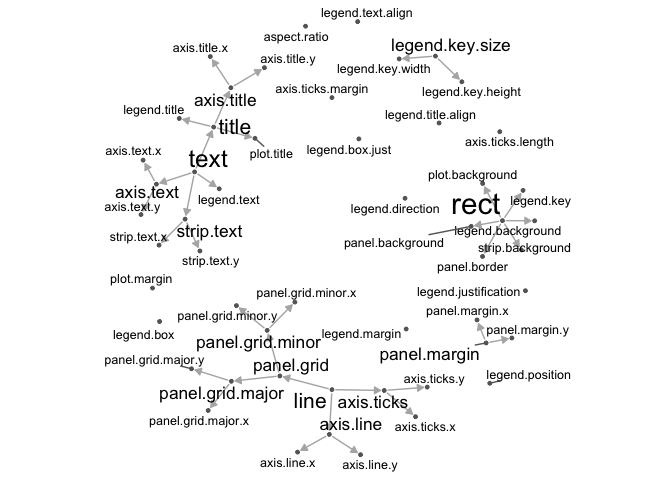
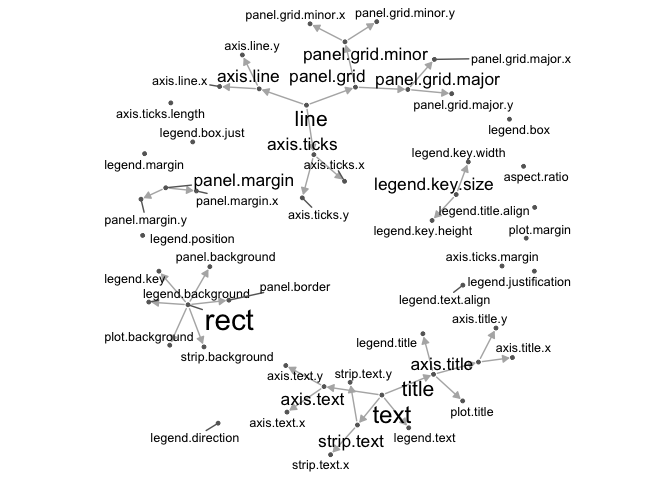
fix HP plot to ignore singletons

Changed region(s): [[0.1562, 0.0, 0.8438, 1.0]]

diff --git a/README.md b/README.md
@@ -1,7 +1,7 @@
 The `geomnet` package
 ================
 Sam Tyner, Heike Hofmann
-2016-12-05
+2016-12-06
 
 <!-- README.md is generated from README.Rmd. Please edit that file -->
 [![CRAN Status](http://www.r-pkg.org/badges/version/geomnet)](https://cran.r-project.org/package=geomnet) [![CRAN RStudio mirror downloads](http://cranlogs.r-pkg.org/badges/geomnet)](http://www.r-pkg.org/pkg/geomnet) [![Travis-CI Build Status](https://travis-ci.org/sctyner/geomnet.svg?branch=master)](https://travis-ci.org/sctyner/geomnet)
@@ -87,7 +87,16 @@ hp.all <- fortify(as.edgedf(hp.edges), hp.chars, group = "book")
 #> Using name1 as the from node column and name2 as the to node column.
 #> If this is not correct, rewrite dat so that the first 2 columns are from and to node, respectively.
 #> Joining edge and node information by from_id and name respectively.
-ggplot(data=hp.all, aes(from_id = from, to_id = to_id)) + 
+# only plot the characters with any connections in a given book. 
+hp.sub <- NULL
+for (i in 1:6){
+  dat <- filter(hp.all, book == i)
+  singletons <- dat$from[is.na(dat$to_id)]
+  true_singletons <- singletons[!singletons %in% unique(dat$to_id)[-1]]
+  dat2 <- dat[!dat$from %in% true_singletons,]
+  hp.sub <- rbind(hp.sub, dat2)
+}
+ggplot(data=hp.sub, aes(from_id = from, to_id = to_id)) + 
   geom_net(fiteach=T, directed = T, size = 2, linewidth = .5, 
            ealpha = .5, labelon = T, fontsize = 2, repel = T, 
            labelcolour = "black", arrowsize = .5,
